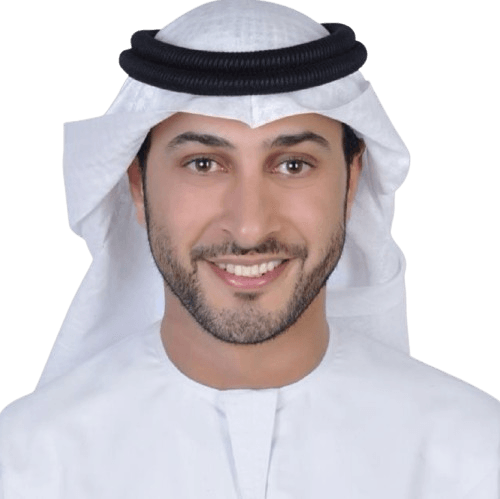
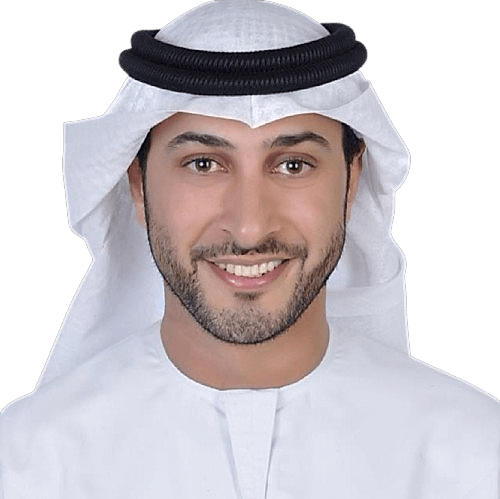
Fix CEO photo showing grayscale and soft
The grayscale/contrast-125 filter was left over from the old stock
placeholder's styling and was stripping all color from the real photo.
Removed it. Also shrunk the display box (480px -> 360px tall on
desktop) since the source is a 500x499 background-removal preview
export - displaying it that much larger than native resolution meant
heavy upscaling (and visible softness) on any high-DPI screen; a
smaller box needs less upscaling. Re-saved the source with a mild
sharpen too.

The source photo itself is capped at 500x499px (a remove.bg "preview"
tier export per its filename) - a genuinely higher-resolution original
would still look sharper than this at any display size.

diff --git a/app/components/about/AboutMessageSection.tsx b/app/components/about/AboutMessageSection.tsx
@@ -56,13 +56,13 @@ export default function AboutMessageSection({ lang, content }: AboutMessageSecti
       className="relative w-full bg-[#171717] text-white px-6 md:px-16 py-24 md:py-32 overflow-hidden"
     >
       <div className="max-w-7xl mx-auto grid grid-cols-1 md:grid-cols-[0.85fr_1.15fr] gap-12 md:gap-16 items-center">
-        <div ref={photoRef} className="relative w-full h-[360px] md:h-[480px] overflow-hidden">
+        <div ref={photoRef} className="relative w-full h-[280px] md:h-[360px] overflow-hidden">
           <Image
             src="/team/ceo-majed-alkindi.png"
             alt={content.authorName}
             fill
-            sizes="(max-width: 768px) 100vw, 45vw"
-            className="object-contain grayscale contrast-125"
+            sizes="(max-width: 768px) 60vw, 30vw"
+            className="object-contain"
           />
           <div className="absolute inset-0 border border-white/10" />
         </div>
